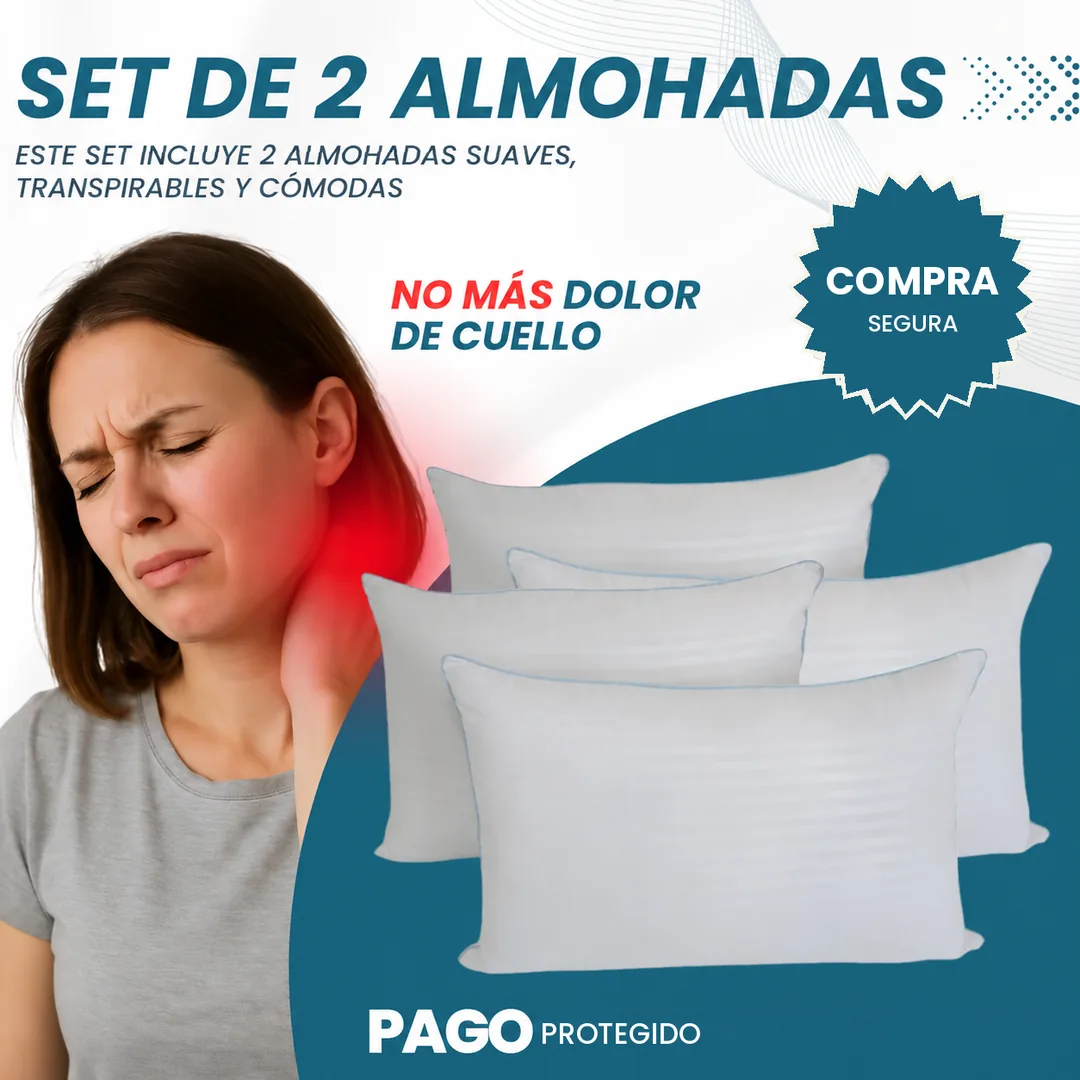
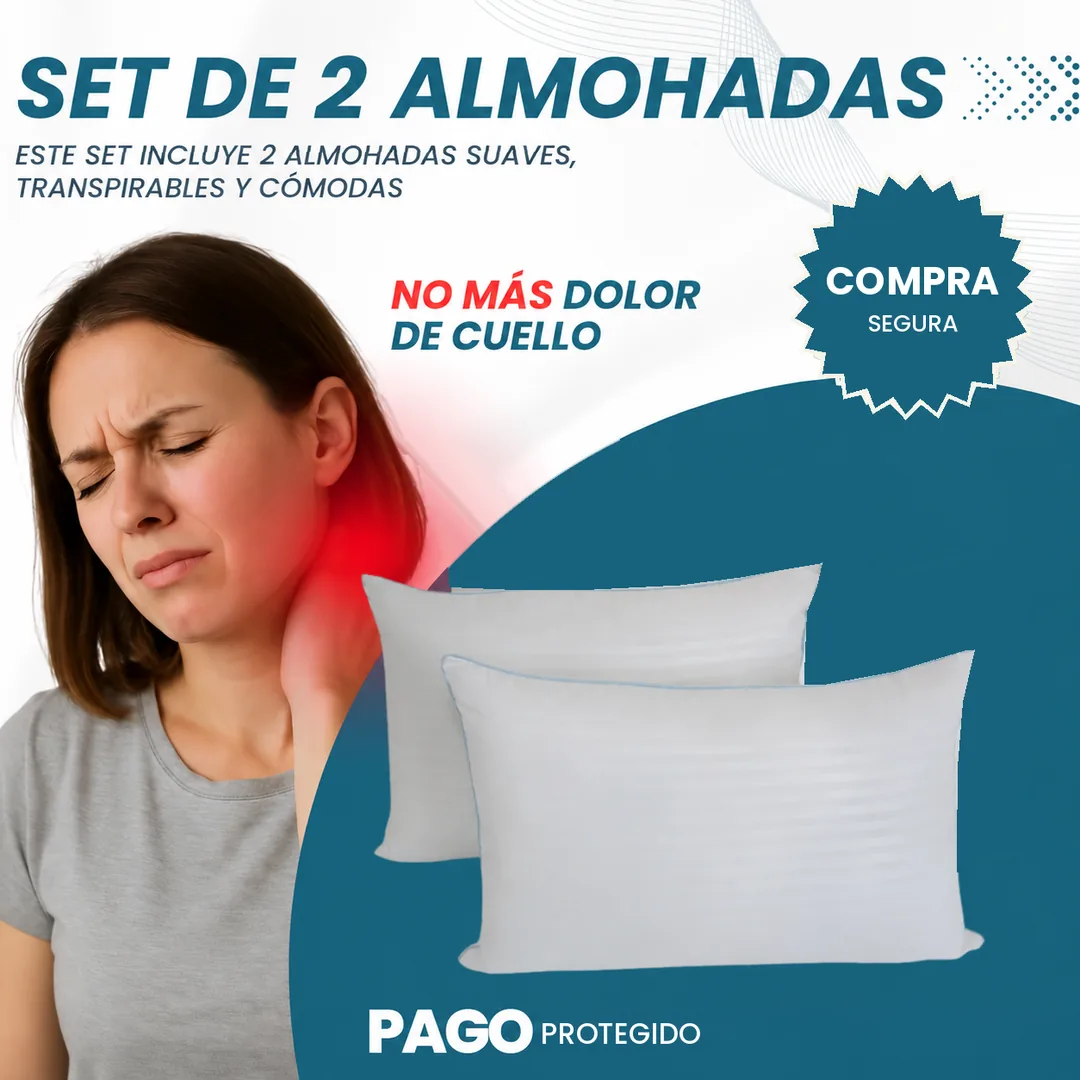
almohadas: imágenes del combo muestran solo 2 almohadas
Claude-Session: https://claude.ai/code/session_017GrYU1fQhGGLwMh2BfBBis

Changed region(s): [[0.3972, 0.3972, 0.9778, 0.7944]]

diff --git a/almohadas/index.html b/almohadas/index.html
@@ -419,9 +419,9 @@ code.k{background:var(--mist);padding:.1rem .35rem;border-radius:6px;font-size:.
   },
   "gallery": [
     { "type": "img", "src": "img/set-x2-99000.jpg", "alt": "Set x2 almohadas suaves y ergonómicas — $99.000" },
-    { "type": "img", "src": "img/medidas.webp", "alt": "Medidas de cada almohada: 60 x 40 cm" },
-    { "type": "img", "src": "img/combo-descanso.webp", "alt": "Combo de 2 almohadas: no se aplastan, no pierden forma" },
-    { "type": "img", "src": "img/dolor-cuello.webp", "alt": "Combo de 2 almohadas para descansar sin dolor de cuello" },
+    { "type": "img", "src": "img/medidas.webp?v=2", "alt": "Medidas de cada almohada: 60 x 40 cm" },
+    { "type": "img", "src": "img/combo-descanso.webp?v=2", "alt": "Combo de 2 almohadas: no se aplastan, no pierden forma" },
+    { "type": "img", "src": "img/dolor-cuello.webp?v=2", "alt": "Combo de 2 almohadas para descansar sin dolor de cuello" },
     { "type": "img", "src": "img/demo-presion.webp", "alt": "Demostración: almohadas siliconadas que recuperan su forma" },
     { "type": "img", "src": "img/demo-cama.webp", "alt": "Almohadas siliconadas en la cama" }
   ],
@@ -429,17 +429,17 @@ code.k{background:var(--mist);padding:.1rem .35rem;border-radius:6px;font-size:.
   "demos": [
     { "title": "Combo x2", "text": "Dos almohadas para renovar tu cama en un solo pedido.", "image": "img/demo-cama.webp" },
     { "title": "Se acomoda al descansar", "text": "Su relleno se adapta al apoyar la cabeza; sacúdela para que recupere su volumen.", "image": "img/demo-presion.webp" },
-    { "title": "Relleno de fibra siliconada", "text": "Un relleno suave y liviano, pensado para el uso diario.", "image": "img/combo-descanso.webp" }
+    { "title": "Relleno de fibra siliconada", "text": "Un relleno suave y liviano, pensado para el uso diario.", "image": "img/combo-descanso.webp?v=2" }
   ],
   "benefits": [
     { "visible": true, "icon": "moon", "title": "Comodidad para el descanso", "text": "Pensadas para acompañar tus noches y hacer de la cama un lugar acogedor.", "image": "img/set-x2-99000.jpg" },
-    { "visible": true, "icon": "wave", "title": "Diseño que se acomoda", "text": "Su relleno de fibra se acomoda al apoyar la cabeza y recupera su volumen al sacudirla.", "image": "img/dolor-cuello.webp" },
-    { "visible": true, "icon": "feather", "title": "Sensación de suavidad", "text": "Tacto suave y agradable, ideal para usar con tu funda favorita.", "image": "img/combo-descanso.webp" },
-    { "visible": true, "icon": "home", "title": "Combo de 2 almohadas", "text": "Dos unidades en un solo pedido: ideales para una cama doble o para dos camas sencillas.", "image": "img/medidas.webp" },
+    { "visible": true, "icon": "wave", "title": "Diseño que se acomoda", "text": "Su relleno de fibra se acomoda al apoyar la cabeza y recupera su volumen al sacudirla.", "image": "img/dolor-cuello.webp?v=2" },
+    { "visible": true, "icon": "feather", "title": "Sensación de suavidad", "text": "Tacto suave y agradable, ideal para usar con tu funda favorita.", "image": "img/combo-descanso.webp?v=2" },
+    { "visible": true, "icon": "home", "title": "Combo de 2 almohadas", "text": "Dos unidades en un solo pedido: ideales para una cama doble o para dos camas sencillas.", "image": "img/medidas.webp?v=2" },
     { "visible": false, "icon": "spark", "title": "Fácil mantenimiento", "text": "Actívalo solo cuando confirmes con tu proveedor las instrucciones de lavado.", "image": "illus:care" }
   ],
   "features": [
-    { "title": "Características", "eyebrow": "El producto", "text": "Un combo de 2 almohadas pensado para renovar tu descanso sin complicaciones.", "bullets": ["2 almohadas en un solo pedido", "Relleno de fibra siliconada", "Formato práctico para camas de la casa"], "image": "img/dolor-cuello.webp" },
+    { "title": "Características", "eyebrow": "El producto", "text": "Un combo de 2 almohadas pensado para renovar tu descanso sin complicaciones.", "bullets": ["2 almohadas en un solo pedido", "Relleno de fibra siliconada", "Formato práctico para camas de la casa"], "image": "img/dolor-cuello.webp?v=2" },
     { "title": "Materiales", "eyebrow": "Calidad que se siente", "text": "Relleno de fibra siliconada. La composición exacta de la tela se confirma con la ficha del proveedor.", "bullets": [], "image": "img/demo-presion.webp" },
     { "title": "Contenido del paquete", "eyebrow": "Lo que recibes", "text": "Recibes tu combo de 2 almohadas listo para usar.", "bullets": ["2 almohadas siliconadas"], "image": "img/demo-cama.webp" }
   ],
